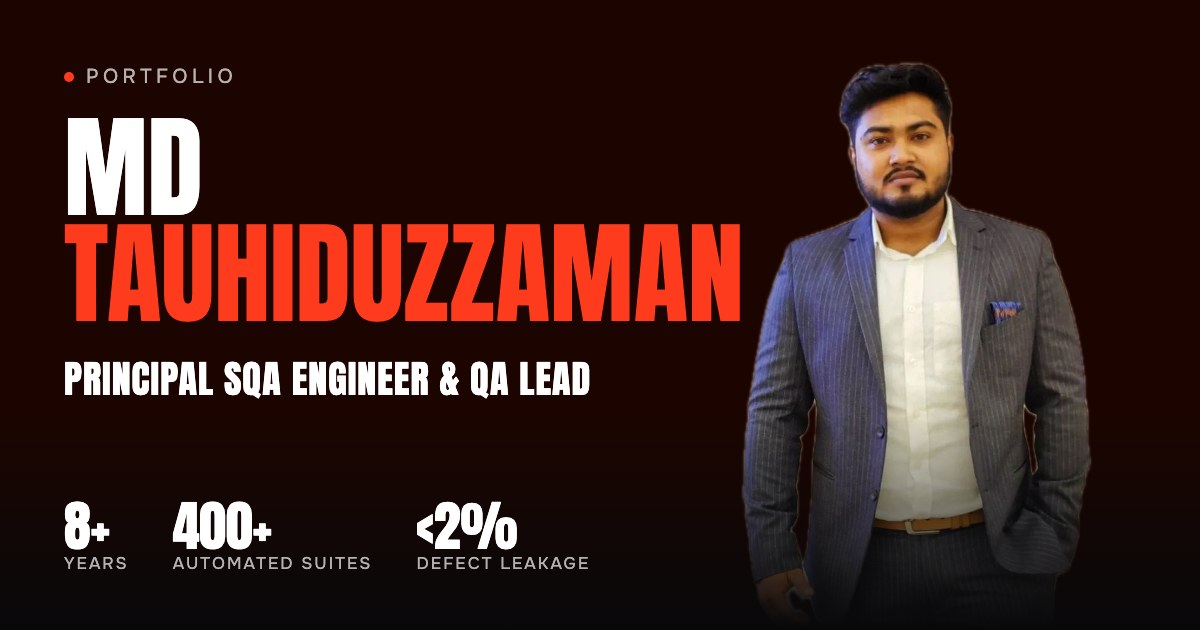
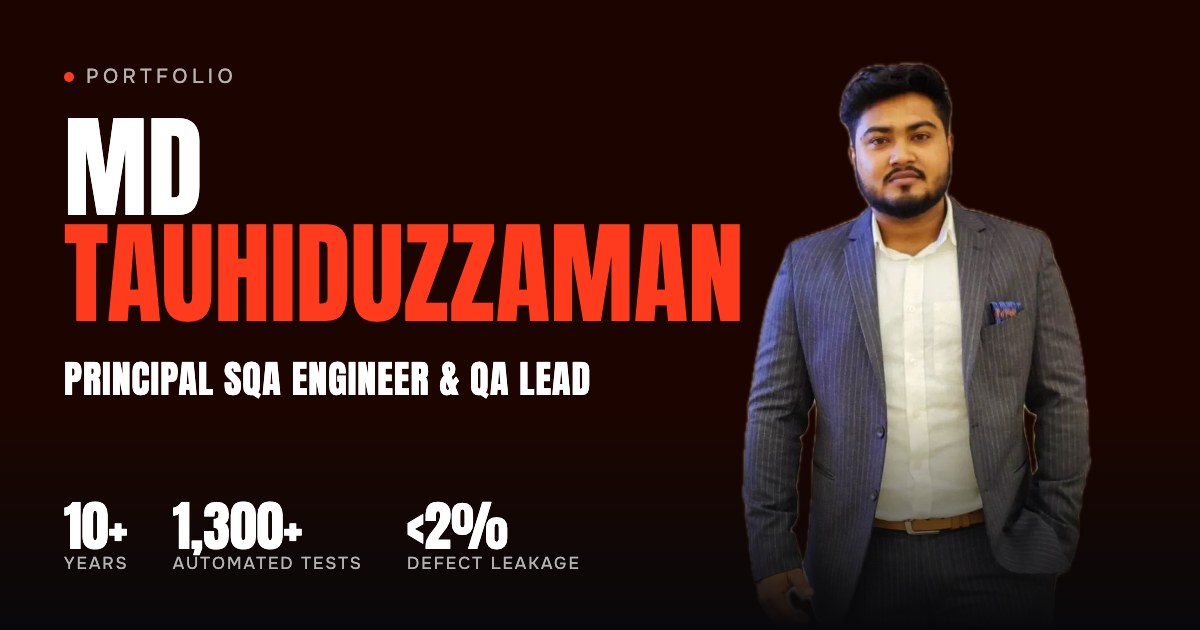
Update to 10+ years and add per-product automation figures
Show 10+ years and a combined 1,300+ automated tests and suites in the
hero, numbers section, descriptions and share image, and add UI/API
automation counts to COSMOS TMS, Bank Asia ZEN, HATIL and Convenience Pay.

Changed region(s): [[0.0308, 0.7841, 0.2467, 0.8746], [0.3392, 0.7841, 0.4933, 0.9048], [0.2467, 0.8746, 0.3083, 0.9048]]

diff --git a/index.html b/index.html
@@ -4,9 +4,9 @@
 <meta charset="UTF-8">
 <meta name="viewport" content="width=device-width, initial-scale=1.0">
 <title>MD Tauhiduzzaman — Principal SQA Engineer &amp; QA Lead</title>
-<meta name="description" content="Principal SQA Engineer and QA Lead with 8+ years across fintech, banking, insurance, healthcare and e-commerce. 400+ automated test suites, production defect leakage cut from ~18% to below 2%.">
+<meta name="description" content="Principal SQA Engineer and QA Lead with 10+ years across fintech, banking, insurance, healthcare and e-commerce. 1,300+ automated tests and suites, production defect leakage cut from ~18% to below 2%.">
 <meta property="og:title" content="MD Tauhiduzzaman — Principal SQA Engineer &amp; QA Lead">
-<meta property="og:description" content="8+ years leading QA strategy, AI-driven test automation and release sign-off. 400+ automated suites. Defect leakage from ~18% to below 2%.">
+<meta property="og:description" content="10+ years leading QA strategy, AI-driven test automation and release sign-off. 1,300+ automated tests and suites. Defect leakage from ~18% to below 2%.">
 <meta property="og:type" content="website">
 <meta property="og:url" content="https://mdtauhiduzzamanshuvo.github.io/MD-Tauhiduzzaman/">
 <meta property="og:image" content="https://mdtauhiduzzamanshuvo.github.io/MD-Tauhiduzzaman/img/og.jpg">
@@ -19,7 +19,7 @@
 <link rel="preconnect" href="https://fonts.googleapis.com">
 <link rel="preconnect" href="https://fonts.gstatic.com" crossorigin>
 <link href="https://fonts.googleapis.com/css2?family=Anton&family=Onest:wght@400;500;600&display=swap" rel="stylesheet">
-<link rel="stylesheet" href="style.css?v=a9ddb0d9">
+<link rel="stylesheet" href="style.css?v=60e13954">
 <noscript><style>.preloader{display:none}[data-reveal],.hero-roles .rl-in,.hero-name .ch,.hero-portrait{opacity:1;transform:none}</style></noscript>
 <script type="application/ld+json">
 {"@context":"https://schema.org","@type":"Person","name":"MD Tauhiduzzaman","jobTitle":"Principal SQA Engineer","worksFor":{"@type":"Organization","name":"KAZ Software"},"url":"https://mdtauhiduzzamanshuvo.github.io/MD-Tauhiduzzaman/","image":"https://mdtauhiduzzamanshuvo.github.io/MD-Tauhiduzzaman/img/og.jpg","email":"mailto:tauhidshuvo01@gmail.com","address":{"@type":"PostalAddress","addressLocality":"Dhaka","addressCountry":"BD"},"sameAs":["https://linkedin.com/in/md-tauhiduzzaman-shuvo","https://github.com/MDTauhiduzzamanShuvo"],"knowsAbout":["Software Quality Assurance","Test Automation","Selenium","Mabl","REST API Testing","Performance Testing","Scrum"]}
@@ -101,8 +101,8 @@
     </figure>
 
     <ul class="hero-proof" data-reveal style="--d:1750ms" aria-label="Key results">
-      <li><b>8+</b><span>Years in software quality</span></li>
-      <li><b>400+</b><span>Automated test suites built</span></li>
+      <li><b>10+</b><span>Years in software quality</span></li>
+      <li><b>1,300+</b><span>Automated tests and suites built</span></li>
       <li><b>&lt;2%</b><span>Defect leakage, down from ~18%</span></li>
     </ul>
 
@@ -127,7 +127,7 @@
         <p class="eyebrow" data-reveal><span class="dot"></span>The Story</p>
         <h2 class="display" data-reveal>Fewer escapes. Faster releases.</h2>
         <p class="lead" data-reveal>
-          I'm a Principal SQA Engineer and QA Lead with 8+ years across fintech, banking,
+          I'm a Principal SQA Engineer and QA Lead with 10+ years across fintech, banking,
           insurance, healthcare and e-commerce. I own end-to-end QA strategy, release
           sign-off and defect management across concurrent client engagements.
         </p>
@@ -210,9 +210,9 @@
       <div class="story-copy">
         <div class="proj-id" data-reveal><img class="proj-logo" src="img/logos/ces.png" alt="COSMOS TMS client logo" decoding="async"></div>
         <h3 class="proj-title" data-reveal>COSMOS TMS</h3>
-        <p class="lead" data-reveal>A transportation management system for freight logistics that plans, ships and tracks loads from one platform.</p>
-        
-        <p class="role-out" data-reveal><span>Freight logistics</span><span>Web app</span><span>US &middot; Mexico &middot; Canada</span></p>
+        <p class="lead" data-reveal>A transportation management system for freight logistics that plans, ships and tracks loads from one platform. I automated its UI test cases in Selenium and Python, and tested its API by chaining endpoints in Postman.</p>
+        <div class="proj-stats" data-reveal><p><b>150+</b><span>UI cases automated</span></p><p><b>200+</b><span>API endpoints chained</span></p></div>
+        <p class="role-out" data-reveal><span>Freight logistics</span><span>Selenium &middot; Python</span><span>Postman</span></p>
       </div>
       <figure class="shot shot--dark" data-reveal style="--d:120ms">
         <img src="img/cosmos-tms.webp" alt="COSMOS TMS sign-in screen: Ship, Track, Deliver" width="1400" height="1400" loading="lazy" decoding="async">
@@ -242,9 +242,9 @@
       <div class="story-copy">
         <div class="proj-id" data-reveal><span class="proj-mark icon"><img src="img/logos/bankasia-zen.jpg" alt="Bank Asia ZEN" decoding="async"></span></div>
         <h3 class="proj-title" data-reveal>Bank Asia ZEN</h3>
-        <p class="lead" data-reveal>Bank Asia's mobile banking app, formerly the SMART App: accounts, transfers, bill payments, FDR/DPS and cards, running on the iStelar core banking system.</p>
-        <p class="proj-big" data-reveal><b>~1M</b><span>Android installs</span></p>
-        <p class="role-out" data-reveal><span>Mobile banking</span><span>Core banking</span><span>iOS &middot; Android</span></p>
+        <p class="lead" data-reveal>Bank Asia's mobile banking app, formerly the SMART App: accounts, transfers, bill payments, FDR/DPS and cards, running on the iStelar core banking system. I built its API test automation in Postman.</p>
+        <div class="proj-stats" data-reveal><p><b>100+</b><span>API test cases automated</span></p><p><b>~1M</b><span>Android installs</span></p></div>
+        <p class="role-out" data-reveal><span>Mobile banking</span><span>Core banking</span><span>Postman</span></p>
       </div>
       <figure class="shot shot--dark" data-reveal style="--d:120ms">
         <img src="img/work/zen.webp" alt="Bank Asia ZEN app screens" width="1400" height="900" loading="lazy" decoding="async">
@@ -268,9 +268,9 @@
       <div class="story-copy">
         <div class="proj-id" data-reveal><span class="proj-mark"><img src="img/logos/hatil.svg" alt="HATIL" decoding="async"></span></div>
         <h3 class="proj-title" data-reveal>HATIL</h3>
-        <p class="lead" data-reveal>E-commerce storefront for a leading Bangladeshi furniture brand. I owned QA strategy and release sign-off, and automated about half of regression in 4&ndash;5 months.</p>
-        <p class="proj-big" data-reveal><b>70+</b><span>Showrooms, plus 300 dealers</span></p>
-        <p class="role-out" data-reveal><span>Retail</span><span>E-commerce</span><span>Selenium &middot; Python</span></p>
+        <p class="lead" data-reveal>E-commerce storefront for a leading Bangladeshi furniture brand with 70+ showrooms and 300 dealers. I owned QA strategy and release sign-off, and automated its UI and API regression.</p>
+        <div class="proj-stats" data-reveal><p><b>100+</b><span>UI tests automated</span></p><p><b>50+</b><span>API endpoints automated</span></p></div>
+        <p class="role-out" data-reveal><span>Retail &middot; E-commerce</span><span>Selenium &middot; Python</span><span>Postman</span></p>
       </div>
       <figure class="shot shot--dark" data-reveal style="--d:120ms">
         <img src="img/work/hatil.webp" alt="HATIL online store home page" width="1440" height="810" loading="lazy" decoding="async">
@@ -294,8 +294,8 @@
       <div class="story-copy">
         <div class="proj-id" data-reveal><span class="proj-mark"><img src="img/logos/conveniencepay.png" alt="Convenience Pay" decoding="async"></span></div>
         <h3 class="proj-title" data-reveal>Convenience Pay</h3>
-        <p class="lead" data-reveal>A contactless payment platform for the Caribbean: fast, secure everyday payments at fuel stations, merchants and public services. I worked on QA for this platform.</p>
-        
+        <p class="lead" data-reveal>A contactless payment platform for the Caribbean: fast, secure everyday payments at fuel stations, merchants and public services. I automated its UI and API testing.</p>
+        <div class="proj-stats" data-reveal><p><b>200+</b><span>UI cases automated</span></p><p><b>100+</b><span>API endpoints automated</span></p></div>
         <p class="role-out" data-reveal><span>Payments</span><span>Contactless</span><span>Trinidad &amp; Tobago</span></p>
       </div>
       <figure class="shot shot--dark" data-reveal style="--d:120ms">
@@ -343,17 +343,17 @@
   <section id="impact">
     <div class="impact-head">
       <p class="eyebrow" data-reveal><span class="dot"></span>By The Numbers</p>
-      <h2 class="display" data-reveal>Eight years, measured.</h2>
+      <h2 class="display" data-reveal>Ten years, measured.</h2>
     </div>
 
     <dl class="stats">
       <div data-reveal>
-        <dd><span data-count="8">8</span>+</dd>
+        <dd><span data-count="10">10</span>+</dd>
         <dt>Years in software quality</dt>
       </div>
       <div data-reveal style="--d:110ms">
-        <dd><span data-count="400">400</span>+</dd>
-        <dt>Automated test suites built</dt>
+        <dd><span data-count="1300">1,300</span>+</dd>
+        <dt>Automated tests and suites built</dt>
       </div>
       <div data-reveal style="--d:220ms">
         <dd>&lt;2%</dd>
@@ -684,6 +684,6 @@
   </div>
 </footer>
 
-<script src="script.js?v=a9ddb0d9"></script>
+<script src="script.js?v=60e13954"></script>
 </body>
 </html>

diff --git a/style.css b/style.css
@@ -343,6 +343,9 @@ section{padding:var(--section) var(--gutter);border-bottom:1px solid var(--line)
 .proj-big{margin-top:2rem;display:flex;align-items:baseline;gap:1rem;flex-wrap:wrap}
 .proj-big b{font-family:var(--font-display);font-weight:400;font-size:var(--t-h1);line-height:1;color:var(--accent)}
 .proj-big span{font-size:var(--t-eyebrow);text-transform:uppercase;letter-spacing:0.16em;color:var(--muted)}
+.proj-stats{margin-top:2rem;display:flex;flex-wrap:wrap;gap:1.5rem 3rem}
+.proj-stats b{display:block;font-family:var(--font-display);font-weight:400;font-size:var(--t-h1);line-height:1;color:var(--accent)}
+.proj-stats span{display:block;margin-top:0.6rem;font-size:var(--t-eyebrow);text-transform:uppercase;letter-spacing:0.16em;color:var(--muted)}
 .proj-feature .role-out{margin-top:2rem}
 .proj-mark{display:flex;align-items:center;justify-content:center;height:4rem;padding:0.6rem 0.9rem;background:#fff;border-radius:0.25rem;flex-shrink:0}
 .proj-mark img{height:2.6rem;width:auto;max-width:7.5rem;object-fit:contain}
@@ -358,7 +361,8 @@ section{padding:var(--section) var(--gutter);border-bottom:1px solid var(--line)
 .proj--wide{margin-top:6rem}
 @media (min-width:900px){.proj--wide{flex-direction:row;align-items:center;gap:2rem}.proj--wide .proj-tags{margin-left:auto;text-align:right;flex-shrink:0}}
 @media (max-width:640px){
-  .proj-id,.proj-big{justify-content:center}
+  .proj-id,.proj-big,.proj-stats{justify-content:center}
+  .proj-stats b{font-size:var(--t-h2)}
   #work .role-out{justify-content:center}
   .proj--wide{align-items:center;text-align:center}
 }

diff --git a/script.js b/script.js
@@ -71,7 +71,7 @@ function countUp(el) {
   const dur = 1300;
   (function tick(now) {
     const p = Math.min((now - t0) / dur, 1);
-    el.textContent = Math.round((1 - Math.pow(1 - p, 3)) * to);
+    el.textContent = Math.round((1 - Math.pow(1 - p, 3)) * to).toLocaleString('en-US');
     if (p < 1) requestAnimationFrame(tick);
   })(t0);
 }
